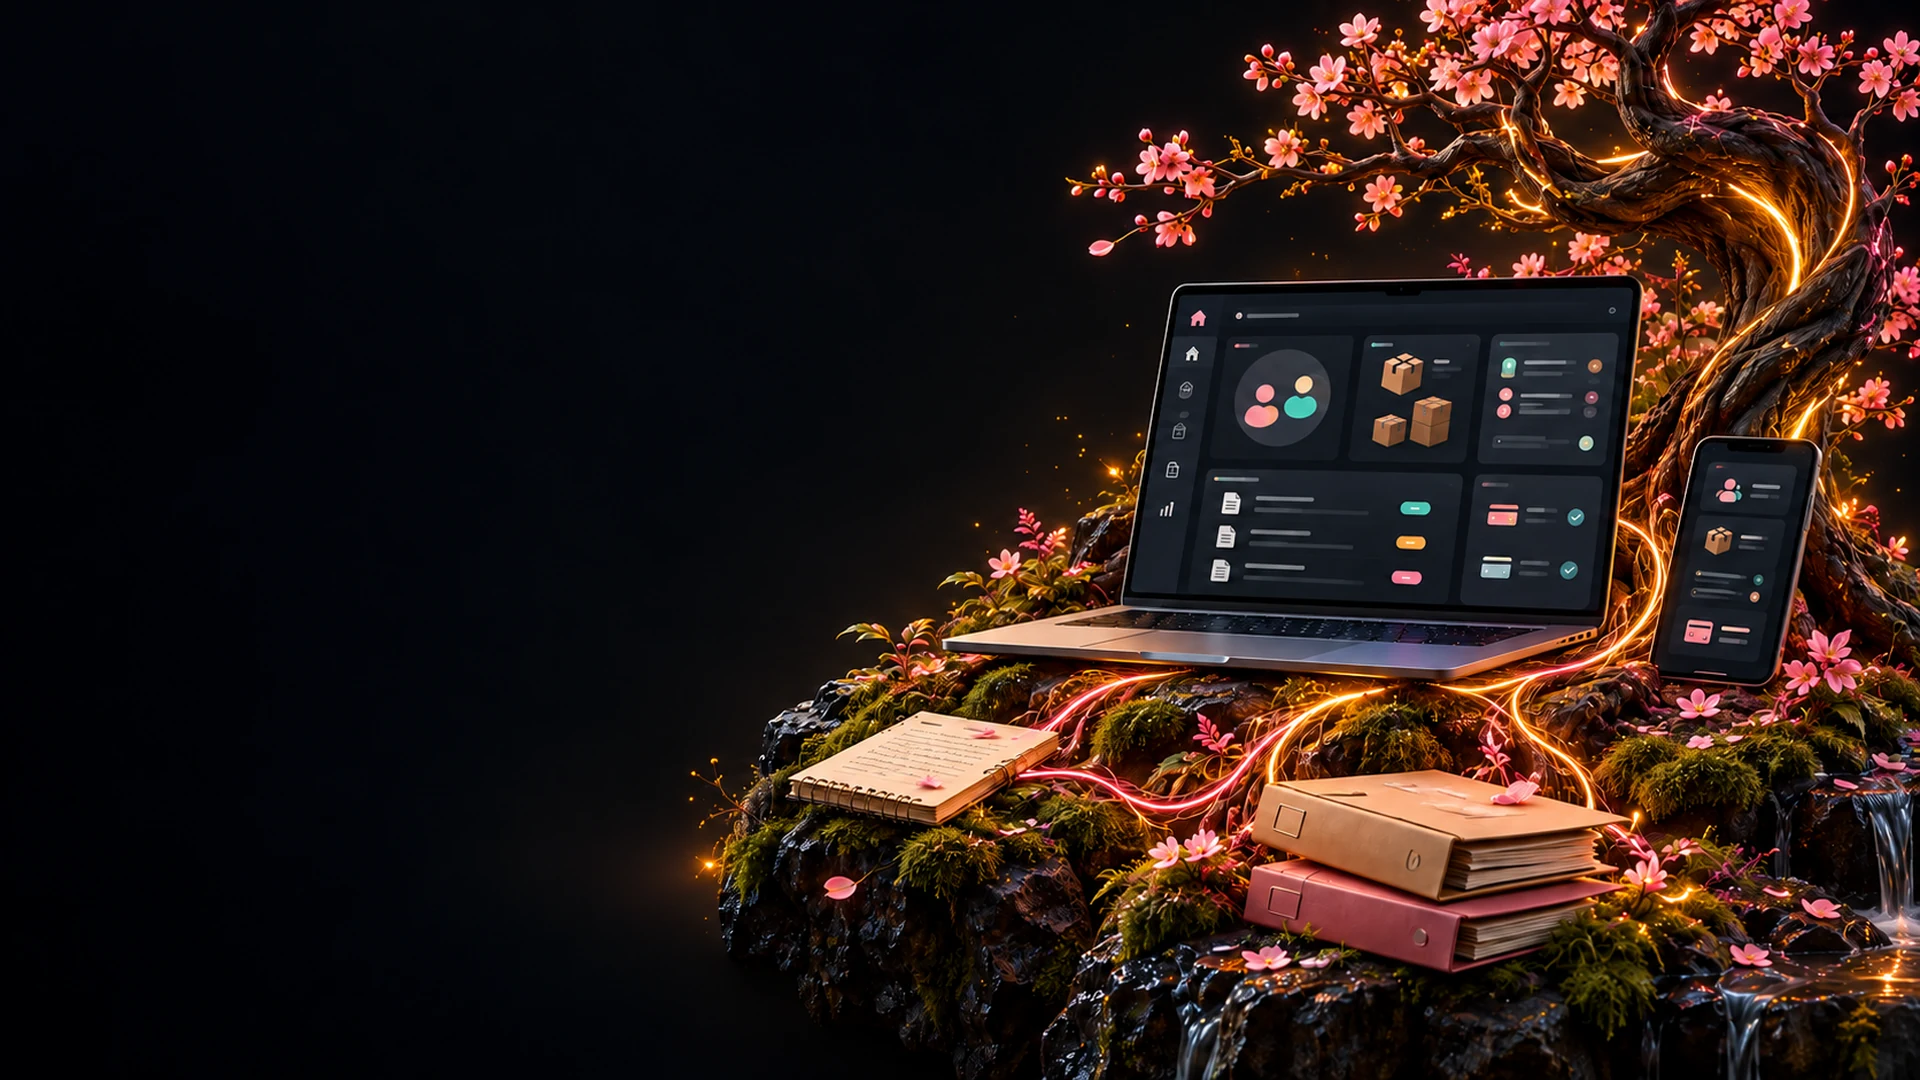
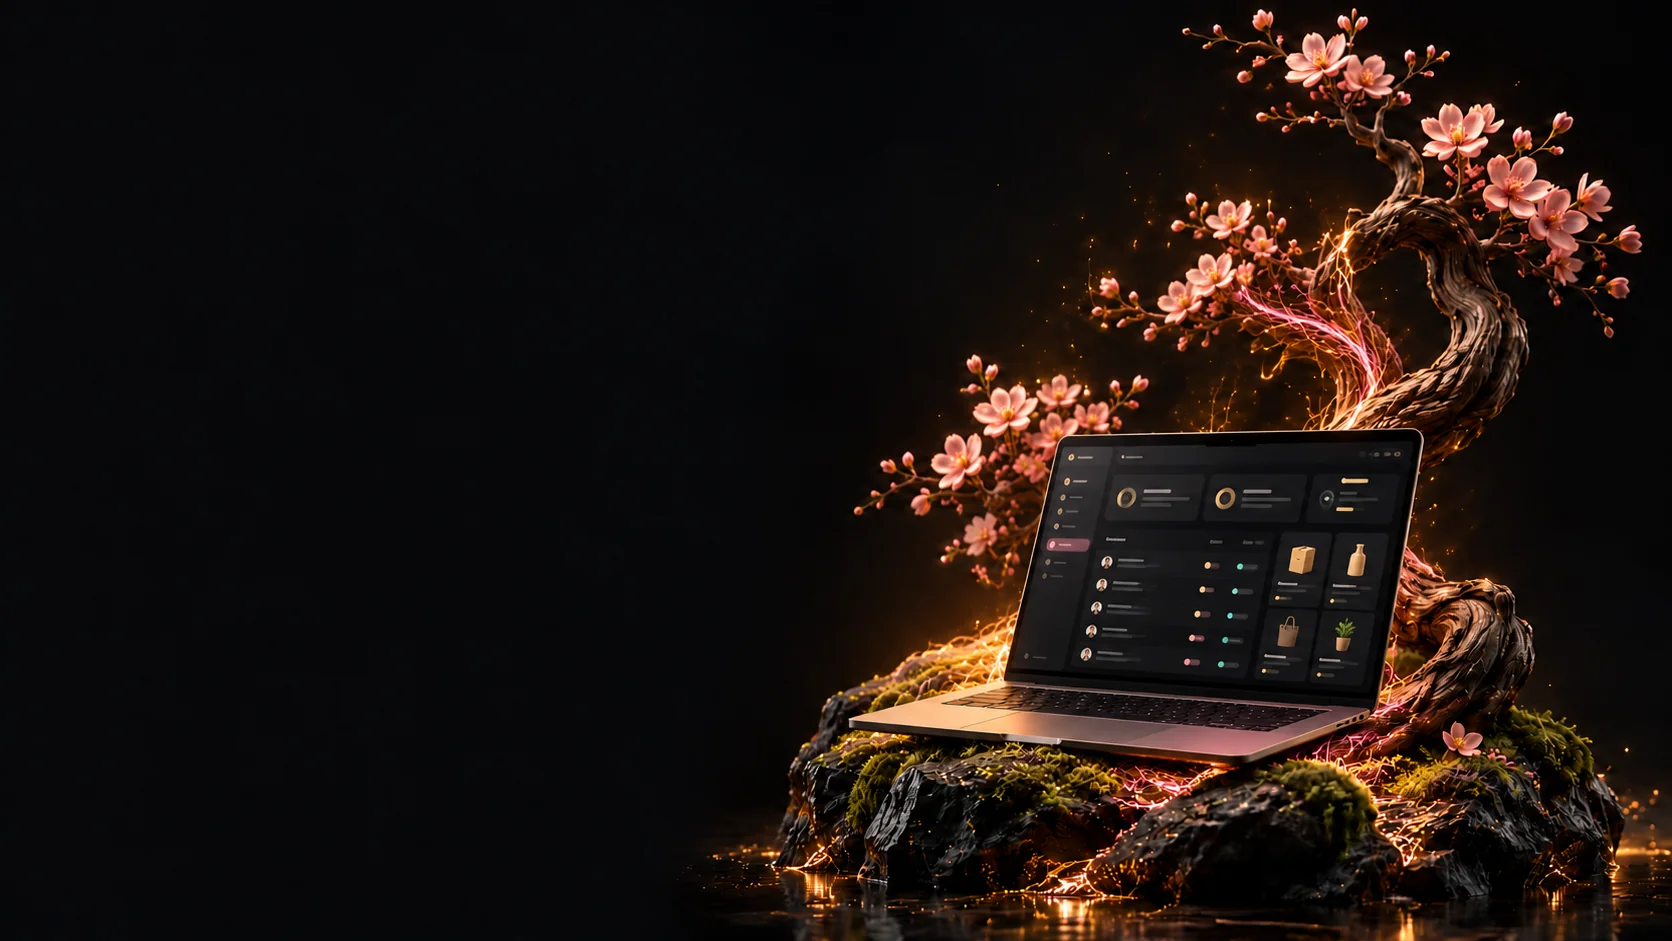
cambio del hero

diff --git a/src/modules/company-profile/infrastructure/landingContentSource.test.ts b/src/modules/company-profile/infrastructure/landingContentSource.test.ts
@@ -111,6 +111,14 @@ describe('landingContentSource', () => {
     expect(projects).not.toMatch(/https?:|www\./)
   })
 
+  it('Patrick conserva su GitHub y no publica LinkedIn', () => {
+    const patrick = es.team.members.find(
+      ({ name }) => name === 'Patrick Jackson Gómez',
+    )
+
+    expect(patrick?.links.map(({ label }) => label)).toEqual(['GitHub'])
+  })
+
   it.each([es, en])(
     'copia literalmente de contenido.md los textos en $locale',
     (content) => {

diff --git a/src/components/landing/landing-sections.test.tsx b/src/components/landing/landing-sections.test.tsx
@@ -92,7 +92,7 @@ describe('HeroSection', () => {
     expect(background).toHaveAttribute('src', '/hero/hero.webp')
     expect(background).toHaveAttribute(
       'srcset',
-      '/hero/hero-960.webp 960w, /hero/hero.webp 1920w',
+      '/hero/hero-960.webp 960w, /hero/hero.webp 1672w',
     )
     expect(background).toHaveAttribute('alt', '')
     expect(background).toHaveAttribute('aria-hidden', 'true')

diff --git a/src/modules/company-profile/infrastructure/landingContentSource.ts b/src/modules/company-profile/infrastructure/landingContentSource.ts
@@ -28,10 +28,7 @@ const gitHub = (url: string): ExternalLink => ({ label: 'GitHub', url })
 const team = {
   patrick: {
     name: 'Patrick Jackson Gómez',
-    links: [
-      linkedIn('https://www.linkedin.com/in/patrickjacksongomez/'),
-      gitHub('https://github.com/Jackson11p'),
-    ],
+    links: [gitHub('https://github.com/Jackson11p')],
   },
   jason: {
     name: 'Jason Moya Brenes',

diff --git a/src/components/landing/hero-section.tsx b/src/components/landing/hero-section.tsx
@@ -33,7 +33,7 @@ export function HeroSection({ hero, whatsappUrl }: HeroSectionProps) {
       <div className="absolute inset-0 z-0">
         <img
           src="/hero/hero.webp"
-          srcSet="/hero/hero-960.webp 960w, /hero/hero.webp 1920w"
+          srcSet="/hero/hero-960.webp 960w, /hero/hero.webp 1672w"
           sizes="100vw"
           alt=""
           aria-hidden="true"

diff --git a/docs/specs/003-generarContenido/spec.md b/docs/specs/003-generarContenido/spec.md
@@ -48,7 +48,7 @@ de todo Costa Rica encontrarnos y contactarnos, publicado en la landing en `/es`
 ### Equipo
 | Integrante | Rol | Enlaces |
 |---|---|---|
-| Patrick Jackson Gómez | Full-stack y análisis de datos; enlace con los clientes: entiende el negocio y lo traduce en tareas para el equipo | [LinkedIn](https://www.linkedin.com/in/patrickjacksongomez/), [GitHub](https://github.com/Jackson11p) |
+| Patrick Jackson Gómez | Full-stack y análisis de datos; enlace con los clientes: entiende el negocio y lo traduce en tareas para el equipo | [GitHub](https://github.com/Jackson11p) |
 | Jason Moya Brenes | Full-stack; enfocado en IA, agentes y LLM | [LinkedIn](https://www.linkedin.com/in/jason-moya-brns/), [GitHub](https://github.com/jasonmoyaB) |
 | Michael Brenes Chaves | Full-stack | [LinkedIn](https://www.linkedin.com/in/michaelbreneschaves/) |
 

diff --git a/docs/specs/003-generarContenido/contenido.md b/docs/specs/003-generarContenido/contenido.md
@@ -217,6 +217,6 @@ Services · How we work · Projects · Team · Contact
 
 ## Enlaces del equipo
 
-- Patrick Jackson Gómez: https://www.linkedin.com/in/patrickjacksongomez/ · https://github.com/Jackson11p
+- Patrick Jackson Gómez: https://github.com/Jackson11p
 - Jason Moya Brenes: https://www.linkedin.com/in/jason-moya-brns/ · https://github.com/jasonmoyaB
 - Michael Brenes Chaves: https://www.linkedin.com/in/michaelbreneschaves/
